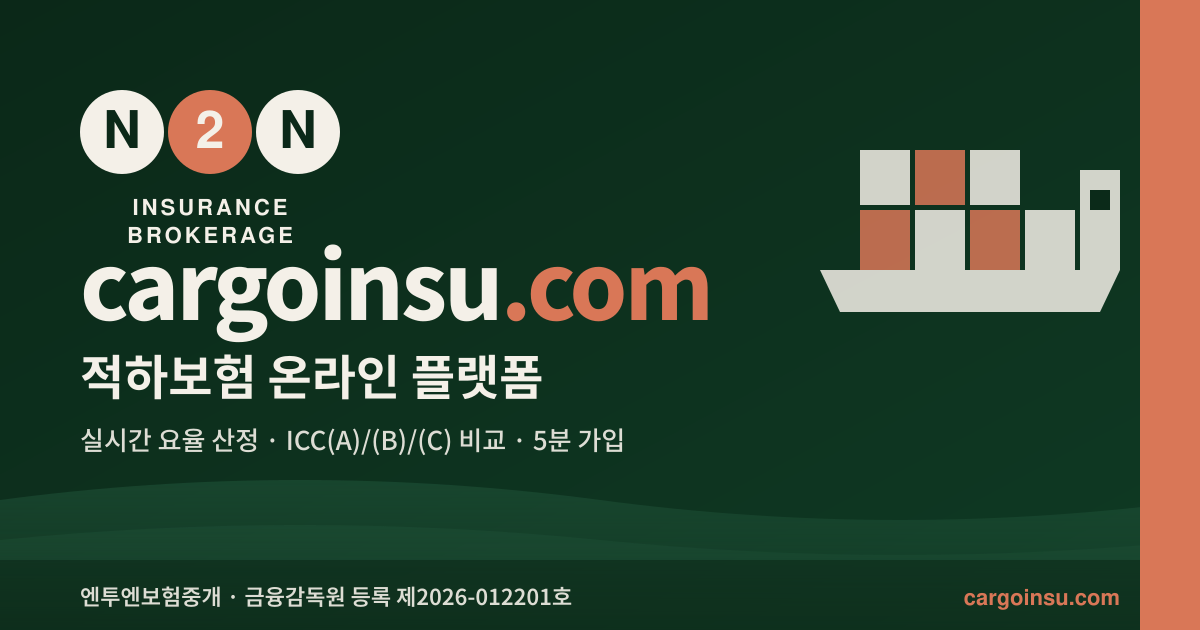
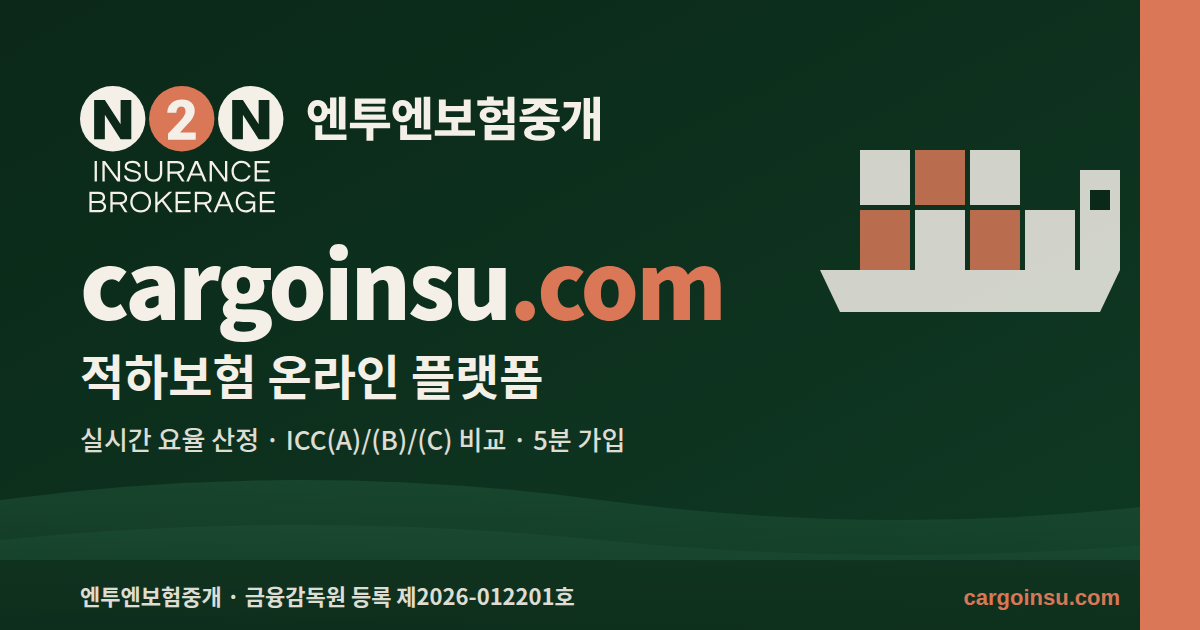
fix: 영문 로고 마크를 정본 기하로 재작성 (0.426→0.600), light-en 추가, OG 카드 로고 정본 적용

diff --git a/en/products/carriers-liability.html b/en/products/carriers-liability.html
@@ -14,6 +14,25 @@ j=d.createElement(s),dl=l!='dataLayer'?'&l='+l:'';j.async=true;j.src=
 <meta name="description" content="Cover for the legal liability of trucking carriers and forwarders to cargo owners. Meets the compulsory requirement under Article 35 of the Trucking Transport Business Act — essential for 5-tonne+ / 10-tonne-GVW, moving-goods, parcel and refrigerated carriers.">
 <meta name="robots" content="index, follow">
 <link rel="canonical" href="https://cargoinsu.com/en/products/carriers-liability.html">
+<!-- Open Graph -->
+<meta property="og:type" content="website">
+<meta property="og:locale" content="en_US">
+<meta property="og:locale:alternate" content="ko_KR">
+<meta property="og:site_name" content="cargoinsu.com">
+<meta property="og:title" content="Carrier's Liability Insurance">
+<meta property="og:description" content="Cover for the legal liability of trucking carriers and forwarders to cargo owners. Meets the compulsory requirement under Article 35 of the Trucking Transport Business Act — essential for 5-tonne+ / 10-tonne-GVW, moving-goods, parcel and refrigerated carriers.">
+<meta property="og:url" content="https://cargoinsu.com/en/products/carriers-liability.html">
+<meta property="og:image" content="https://cargoinsu.com/assets/og-image.png">
+<meta property="og:image:secure_url" content="https://cargoinsu.com/assets/og-image.png">
+<meta property="og:image:type" content="image/png">
+<meta property="og:image:width" content="1200">
+<meta property="og:image:height" content="630">
+<meta property="og:image:alt" content="cargoinsu.com — N2N Insurance Brokerage, marine cargo insurance platform">
+<!-- Twitter Card -->
+<meta name="twitter:card" content="summary_large_image">
+<meta name="twitter:title" content="Carrier's Liability Insurance">
+<meta name="twitter:description" content="Cover for the legal liability of trucking carriers and forwarders to cargo owners. Meets the compulsory requirement under Article 35 of the Trucking Transport Business Act — essential for 5-tonne+ / 10-tonne-GVW, moving-goods, parcel and refrigerated carriers.">
+<meta name="twitter:image" content="https://cargoinsu.com/assets/og-image.png">
 <link rel="alternate" hreflang="ko" href="https://cargoinsu.com/products/carriers-liability.html">
 <link rel="alternate" hreflang="en" href="https://cargoinsu.com/en/products/carriers-liability.html">
 <link rel="alternate" hreflang="x-default" href="https://cargoinsu.com/products/carriers-liability.html">

diff --git a/en/products/jewellers-block.html b/en/products/jewellers-block.html
@@ -14,6 +14,25 @@ j=d.createElement(s),dl=l!='dataLayer'?'&l='+l:'';j.async=true;j.src=
 <meta name="description" content="All Risks cover for precious metals, gems, fine watches, luxury goods, art and antiques across store, vault, transit, exhibition and auction. Chubb Jeweller's Block global wording with Worldwide, Mysterious Disappearance and Memo & Consignment endorsements.">
 <meta name="robots" content="index, follow">
 <link rel="canonical" href="https://cargoinsu.com/en/products/jewellers-block.html">
+<!-- Open Graph -->
+<meta property="og:type" content="website">
+<meta property="og:locale" content="en_US">
+<meta property="og:locale:alternate" content="ko_KR">
+<meta property="og:site_name" content="cargoinsu.com">
+<meta property="og:title" content="Jeweller's Block Insurance">
+<meta property="og:description" content="All Risks cover for precious metals, gems, fine watches, luxury goods, art and antiques across store, vault, transit, exhibition and auction. Chubb Jeweller's Block global wording with Worldwide, Mysterious Disappearance and Memo &amp; Consignment endorsements.">
+<meta property="og:url" content="https://cargoinsu.com/en/products/jewellers-block.html">
+<meta property="og:image" content="https://cargoinsu.com/assets/og-image.png">
+<meta property="og:image:secure_url" content="https://cargoinsu.com/assets/og-image.png">
+<meta property="og:image:type" content="image/png">
+<meta property="og:image:width" content="1200">
+<meta property="og:image:height" content="630">
+<meta property="og:image:alt" content="cargoinsu.com — N2N Insurance Brokerage, marine cargo insurance platform">
+<!-- Twitter Card -->
+<meta name="twitter:card" content="summary_large_image">
+<meta name="twitter:title" content="Jeweller's Block Insurance">
+<meta name="twitter:description" content="All Risks cover for precious metals, gems, fine watches, luxury goods, art and antiques across store, vault, transit, exhibition and auction. Chubb Jeweller's Block global wording with Worldwide, Mysterious Disappearance and Memo &amp; Consignment endorsements.">
+<meta name="twitter:image" content="https://cargoinsu.com/assets/og-image.png">
 <link rel="alternate" hreflang="ko" href="https://cargoinsu.com/products/jewellers-block.html">
 <link rel="alternate" hreflang="en" href="https://cargoinsu.com/en/products/jewellers-block.html">
 <link rel="alternate" hreflang="x-default" href="https://cargoinsu.com/products/jewellers-block.html">

diff --git a/en/products/liability-freight-forwarders.html b/en/products/liability-freight-forwarders.html
@@ -14,6 +14,25 @@ j=d.createElement(s),dl=l!='dataLayer'?'&l='+l:'';j.async=true;j.src=
 <meta name="description" content="Integrated cover for the loss and third-party liability a forwarder or multimodal operator faces while carrying, storing and transhipping a client's international cargo. Standard for KIFFA / FIATA / IATA B/L operators.">
 <meta name="robots" content="index, follow">
 <link rel="canonical" href="https://cargoinsu.com/en/products/liability-freight-forwarders.html">
+<!-- Open Graph -->
+<meta property="og:type" content="website">
+<meta property="og:locale" content="en_US">
+<meta property="og:locale:alternate" content="ko_KR">
+<meta property="og:site_name" content="cargoinsu.com">
+<meta property="og:title" content="Freight Forwarder's Liability (FFL)">
+<meta property="og:description" content="Integrated cover for the loss and third-party liability a forwarder or multimodal operator faces while carrying, storing and transhipping a client's international cargo. Standard for KIFFA / FIATA / IATA B/L operators.">
+<meta property="og:url" content="https://cargoinsu.com/en/products/liability-freight-forwarders.html">
+<meta property="og:image" content="https://cargoinsu.com/assets/og-image.png">
+<meta property="og:image:secure_url" content="https://cargoinsu.com/assets/og-image.png">
+<meta property="og:image:type" content="image/png">
+<meta property="og:image:width" content="1200">
+<meta property="og:image:height" content="630">
+<meta property="og:image:alt" content="cargoinsu.com — N2N Insurance Brokerage, marine cargo insurance platform">
+<!-- Twitter Card -->
+<meta name="twitter:card" content="summary_large_image">
+<meta name="twitter:title" content="Freight Forwarder's Liability (FFL)">
+<meta name="twitter:description" content="Integrated cover for the loss and third-party liability a forwarder or multimodal operator faces while carrying, storing and transhipping a client's international cargo. Standard for KIFFA / FIATA / IATA B/L operators.">
+<meta name="twitter:image" content="https://cargoinsu.com/assets/og-image.png">
 <link rel="alternate" hreflang="ko" href="https://cargoinsu.com/products/liability-freight-forwarders.html">
 <link rel="alternate" hreflang="en" href="https://cargoinsu.com/en/products/liability-freight-forwarders.html">
 <link rel="alternate" hreflang="x-default" href="https://cargoinsu.com/products/liability-freight-forwarders.html">

diff --git a/en/products/marine-transit.html b/en/products/marine-transit.html
@@ -14,6 +14,25 @@ j=d.createElement(s),dl=l!='dataLayer'?'&l='+l:'';j.async=true;j.src=
 <meta name="description" content="Transit insurance covering loss or damage to goods in domestic road, rail and coastal carriage. Own-account or contracted, per-shipment or annual open cover. Cargo-owner cover, separate from carrier's liability.">
 <meta name="robots" content="index, follow">
 <link rel="canonical" href="https://cargoinsu.com/en/products/marine-transit.html">
+<!-- Open Graph -->
+<meta property="og:type" content="website">
+<meta property="og:locale" content="en_US">
+<meta property="og:locale:alternate" content="ko_KR">
+<meta property="og:site_name" content="cargoinsu.com">
+<meta property="og:title" content="Transit Insurance (Marine / domestic)">
+<meta property="og:description" content="Transit insurance covering loss or damage to goods in domestic road, rail and coastal carriage. Own-account or contracted, per-shipment or annual open cover. Cargo-owner cover, separate from carrier's liability.">
+<meta property="og:url" content="https://cargoinsu.com/en/products/marine-transit.html">
+<meta property="og:image" content="https://cargoinsu.com/assets/og-image.png">
+<meta property="og:image:secure_url" content="https://cargoinsu.com/assets/og-image.png">
+<meta property="og:image:type" content="image/png">
+<meta property="og:image:width" content="1200">
+<meta property="og:image:height" content="630">
+<meta property="og:image:alt" content="cargoinsu.com — N2N Insurance Brokerage, marine cargo insurance platform">
+<!-- Twitter Card -->
+<meta name="twitter:card" content="summary_large_image">
+<meta name="twitter:title" content="Transit Insurance (Marine / domestic)">
+<meta name="twitter:description" content="Transit insurance covering loss or damage to goods in domestic road, rail and coastal carriage. Own-account or contracted, per-shipment or annual open cover. Cargo-owner cover, separate from carrier's liability.">
+<meta name="twitter:image" content="https://cargoinsu.com/assets/og-image.png">
 <link rel="alternate" hreflang="ko" href="https://cargoinsu.com/products/marine-transit.html">
 <link rel="alternate" hreflang="en" href="https://cargoinsu.com/en/products/marine-transit.html">
 <link rel="alternate" hreflang="x-default" href="https://cargoinsu.com/products/marine-transit.html">

diff --git a/en/products/inland-transit.html b/en/products/inland-transit.html
@@ -14,6 +14,25 @@ j=d.createElement(s),dl=l!='dataLayer'?'&l='+l:'';j.async=true;j.src=
 <meta name="description" content="Warehouse-to-Warehouse All Risks cover for domestic road and rail goods of manufacturing, distribution and e-commerce shippers. Chubb Inland Transit wording, annual open cover + monthly declaration.">
 <meta name="robots" content="index, follow">
 <link rel="canonical" href="https://cargoinsu.com/en/products/inland-transit.html">
+<!-- Open Graph -->
+<meta property="og:type" content="website">
+<meta property="og:locale" content="en_US">
+<meta property="og:locale:alternate" content="ko_KR">
+<meta property="og:site_name" content="cargoinsu.com">
+<meta property="og:title" content="Inland Transit Insurance">
+<meta property="og:description" content="Warehouse-to-Warehouse All Risks cover for domestic road and rail goods of manufacturing, distribution and e-commerce shippers. Chubb Inland Transit wording, annual open cover + monthly declaration.">
+<meta property="og:url" content="https://cargoinsu.com/en/products/inland-transit.html">
+<meta property="og:image" content="https://cargoinsu.com/assets/og-image.png">
+<meta property="og:image:secure_url" content="https://cargoinsu.com/assets/og-image.png">
+<meta property="og:image:type" content="image/png">
+<meta property="og:image:width" content="1200">
+<meta property="og:image:height" content="630">
+<meta property="og:image:alt" content="cargoinsu.com — N2N Insurance Brokerage, marine cargo insurance platform">
+<!-- Twitter Card -->
+<meta name="twitter:card" content="summary_large_image">
+<meta name="twitter:title" content="Inland Transit Insurance">
+<meta name="twitter:description" content="Warehouse-to-Warehouse All Risks cover for domestic road and rail goods of manufacturing, distribution and e-commerce shippers. Chubb Inland Transit wording, annual open cover + monthly declaration.">
+<meta name="twitter:image" content="https://cargoinsu.com/assets/og-image.png">
 <link rel="alternate" hreflang="ko" href="https://cargoinsu.com/products/inland-transit.html">
 <link rel="alternate" hreflang="en" href="https://cargoinsu.com/en/products/inland-transit.html">
 <link rel="alternate" hreflang="x-default" href="https://cargoinsu.com/products/inland-transit.html">

diff --git a/en/guide/index.html b/en/guide/index.html
@@ -13,6 +13,25 @@ j=d.createElement(s),dl=l!='dataLayer'?'&l='+l:'';j.async=true;j.src=
 <title>Marine Cargo Insurance Guide &mdash; Clauses, Incoterms, Policy Period, Claims | cargoinsu.com</title>
 <meta name="description" content="A broker's guide to marine cargo insurance: ICC (A/B/C) and old A.R/W.A/F.P.A clauses, who insures under each Incoterm, warehouse-to-warehouse policy period, and the claims procedure.">
 <link rel="canonical" href="https://cargoinsu.com/en/guide/index.html">
+<!-- Open Graph -->
+<meta property="og:type" content="website">
+<meta property="og:locale" content="en_US">
+<meta property="og:locale:alternate" content="ko_KR">
+<meta property="og:site_name" content="cargoinsu.com">
+<meta property="og:title" content="Marine Cargo Insurance Guide — Clauses, Incoterms, Policy Period, Claims">
+<meta property="og:description" content="A broker's guide to marine cargo insurance: ICC (A/B/C) and old A.R/W.A/F.P.A clauses, who insures under each Incoterm, warehouse-to-warehouse policy period, and the claims procedure.">
+<meta property="og:url" content="https://cargoinsu.com/en/guide/index.html">
+<meta property="og:image" content="https://cargoinsu.com/assets/og-image.png">
+<meta property="og:image:secure_url" content="https://cargoinsu.com/assets/og-image.png">
+<meta property="og:image:type" content="image/png">
+<meta property="og:image:width" content="1200">
+<meta property="og:image:height" content="630">
+<meta property="og:image:alt" content="cargoinsu.com — N2N Insurance Brokerage, marine cargo insurance platform">
+<!-- Twitter Card -->
+<meta name="twitter:card" content="summary_large_image">
+<meta name="twitter:title" content="Marine Cargo Insurance Guide — Clauses, Incoterms, Policy Period, Claims">
+<meta name="twitter:description" content="A broker's guide to marine cargo insurance: ICC (A/B/C) and old A.R/W.A/F.P.A clauses, who insures under each Incoterm, warehouse-to-warehouse policy period, and the claims procedure.">
+<meta name="twitter:image" content="https://cargoinsu.com/assets/og-image.png">
 <!-- hreflang -->
 <link rel="alternate" hreflang="ko" href="https://cargoinsu.com/guide/index.html">
 <link rel="alternate" hreflang="en" href="https://cargoinsu.com/en/guide/index.html">

diff --git a/en/guide/marine-cargo.html b/en/guide/marine-cargo.html
@@ -13,6 +13,25 @@ j=d.createElement(s),dl=l!='dataLayer'?'&l='+l:'';j.async=true;j.src=
 <title>What is marine cargo insurance? | cargoinsu.com</title>
 <meta name="description" content="Marine cargo insurance covers loss or damage in transit. Coverage scopes ICC(A)/(B)/(C), the 110%-of-invoice insured amount, exclusions, and how to compare six insurers. The broker fee is paid by the insurer (Art. 98).">
 <link rel="canonical" href="https://cargoinsu.com/en/guide/marine-cargo.html">
+<!-- Open Graph -->
+<meta property="og:type" content="website">
+<meta property="og:locale" content="en_US">
+<meta property="og:locale:alternate" content="ko_KR">
+<meta property="og:site_name" content="cargoinsu.com">
+<meta property="og:title" content="What is marine cargo insurance?">
+<meta property="og:description" content="Marine cargo insurance covers loss or damage in transit. Coverage scopes ICC(A)/(B)/(C), the 110%-of-invoice insured amount, exclusions, and how to compare six insurers. The broker fee is paid by the insurer (Art. 98).">
+<meta property="og:url" content="https://cargoinsu.com/en/guide/marine-cargo.html">
+<meta property="og:image" content="https://cargoinsu.com/assets/og-image.png">
+<meta property="og:image:secure_url" content="https://cargoinsu.com/assets/og-image.png">
+<meta property="og:image:type" content="image/png">
+<meta property="og:image:width" content="1200">
+<meta property="og:image:height" content="630">
+<meta property="og:image:alt" content="cargoinsu.com — N2N Insurance Brokerage, marine cargo insurance platform">
+<!-- Twitter Card -->
+<meta name="twitter:card" content="summary_large_image">
+<meta name="twitter:title" content="What is marine cargo insurance?">
+<meta name="twitter:description" content="Marine cargo insurance covers loss or damage in transit. Coverage scopes ICC(A)/(B)/(C), the 110%-of-invoice insured amount, exclusions, and how to compare six insurers. The broker fee is paid by the insurer (Art. 98).">
+<meta name="twitter:image" content="https://cargoinsu.com/assets/og-image.png">
 <!-- hreflang -->
 <link rel="alternate" hreflang="ko" href="https://cargoinsu.com/guide/marine-cargo.html">
 <link rel="alternate" hreflang="en" href="https://cargoinsu.com/en/guide/marine-cargo.html">

diff --git a/en/products/marine-cargo.html b/en/products/marine-cargo.html
@@ -14,6 +14,25 @@ j=d.createElement(s),dl=l!='dataLayer'?'&l='+l:'';j.async=true;j.src=
 <meta name="description" content="Marine cargo insurance covering loss or damage to goods in sea, air and multimodal transit. New ICC(A/B/C) + old A.R/W.A/F.P.A clauses — Incoterms, item-specific rules, required documents and FAQ.">
 <meta name="robots" content="index, follow">
 <link rel="canonical" href="https://cargoinsu.com/en/products/marine-cargo.html">
+<!-- Open Graph -->
+<meta property="og:type" content="website">
+<meta property="og:locale" content="en_US">
+<meta property="og:locale:alternate" content="ko_KR">
+<meta property="og:site_name" content="cargoinsu.com">
+<meta property="og:title" content="Marine Cargo Insurance — full guide">
+<meta property="og:description" content="Marine cargo insurance covering loss or damage to goods in sea, air and multimodal transit. New ICC(A/B/C) + old A.R/W.A/F.P.A clauses — Incoterms, item-specific rules, required documents and FAQ.">
+<meta property="og:url" content="https://cargoinsu.com/en/products/marine-cargo.html">
+<meta property="og:image" content="https://cargoinsu.com/assets/og-image.png">
+<meta property="og:image:secure_url" content="https://cargoinsu.com/assets/og-image.png">
+<meta property="og:image:type" content="image/png">
+<meta property="og:image:width" content="1200">
+<meta property="og:image:height" content="630">
+<meta property="og:image:alt" content="cargoinsu.com — N2N Insurance Brokerage, marine cargo insurance platform">
+<!-- Twitter Card -->
+<meta name="twitter:card" content="summary_large_image">
+<meta name="twitter:title" content="Marine Cargo Insurance — full guide">
+<meta name="twitter:description" content="Marine cargo insurance covering loss or damage to goods in sea, air and multimodal transit. New ICC(A/B/C) + old A.R/W.A/F.P.A clauses — Incoterms, item-specific rules, required documents and FAQ.">
+<meta name="twitter:image" content="https://cargoinsu.com/assets/og-image.png">
 <!-- hreflang -->
 <link rel="alternate" hreflang="ko" href="https://cargoinsu.com/products/marine-cargo.html">
 <link rel="alternate" hreflang="en" href="https://cargoinsu.com/en/products/marine-cargo.html">

diff --git a/en/guide/clauses.html b/en/guide/clauses.html
@@ -13,6 +13,25 @@ j=d.createElement(s),dl=l!='dataLayer'?'&l='+l:'';j.async=true;j.src=
 <title>Cargo Clauses Compared &mdash; ICC(A/B/C) &middot; A.R/W.A/F.P.A &middot; Air | cargoinsu.com</title>
 <meta name="description" content="Marine cargo clauses compared: new ICC (A/B/C), old A.R/W.A/F.P.A, ICC(Air), 11 additional risks and recommended clauses by cargo type, from an ACIU broker's perspective.">
 <link rel="canonical" href="https://cargoinsu.com/en/guide/clauses.html">
+<!-- Open Graph -->
+<meta property="og:type" content="website">
+<meta property="og:locale" content="en_US">
+<meta property="og:locale:alternate" content="ko_KR">
+<meta property="og:site_name" content="cargoinsu.com">
+<meta property="og:title" content="Cargo Clauses Compared — ICC(A/B/C) · A.R/W.A/F.P.A · Air">
+<meta property="og:description" content="Marine cargo clauses compared: new ICC (A/B/C), old A.R/W.A/F.P.A, ICC(Air), 11 additional risks and recommended clauses by cargo type, from an ACIU broker's perspective.">
+<meta property="og:url" content="https://cargoinsu.com/en/guide/clauses.html">
+<meta property="og:image" content="https://cargoinsu.com/assets/og-image.png">
+<meta property="og:image:secure_url" content="https://cargoinsu.com/assets/og-image.png">
+<meta property="og:image:type" content="image/png">
+<meta property="og:image:width" content="1200">
+<meta property="og:image:height" content="630">
+<meta property="og:image:alt" content="cargoinsu.com — N2N Insurance Brokerage, marine cargo insurance platform">
+<!-- Twitter Card -->
+<meta name="twitter:card" content="summary_large_image">
+<meta name="twitter:title" content="Cargo Clauses Compared — ICC(A/B/C) · A.R/W.A/F.P.A · Air">
+<meta name="twitter:description" content="Marine cargo clauses compared: new ICC (A/B/C), old A.R/W.A/F.P.A, ICC(Air), 11 additional risks and recommended clauses by cargo type, from an ACIU broker's perspective.">
+<meta name="twitter:image" content="https://cargoinsu.com/assets/og-image.png">
 <!-- hreflang -->
 <link rel="alternate" hreflang="ko" href="https://cargoinsu.com/guide/clauses.html">
 <link rel="alternate" hreflang="en" href="https://cargoinsu.com/en/guide/clauses.html">

diff --git a/en/guide/incoterms.html b/en/guide/incoterms.html
@@ -13,6 +13,25 @@ j=d.createElement(s),dl=l!='dataLayer'?'&l='+l:'';j.async=true;j.src=
 <title>Incoterms &amp; Who Insures the Cargo &mdash; EXW &middot; FOB &middot; CIF and more | cargoinsu.com</title>
 <meta name="description" content="The 8 Incoterms most used in cargo insurance (EXW, FAS, FOB, CFR, CIF, CIP, DDP, DAP): seller vs buyer duty to insure, the risk-transfer point and a self-check.">
 <link rel="canonical" href="https://cargoinsu.com/en/guide/incoterms.html">
+<!-- Open Graph -->
+<meta property="og:type" content="website">
+<meta property="og:locale" content="en_US">
+<meta property="og:locale:alternate" content="ko_KR">
+<meta property="og:site_name" content="cargoinsu.com">
+<meta property="og:title" content="Incoterms &amp; Who Insures the Cargo — EXW · FOB · CIF and more">
+<meta property="og:description" content="The 8 Incoterms most used in cargo insurance (EXW, FAS, FOB, CFR, CIF, CIP, DDP, DAP): seller vs buyer duty to insure, the risk-transfer point and a self-check.">
+<meta property="og:url" content="https://cargoinsu.com/en/guide/incoterms.html">
+<meta property="og:image" content="https://cargoinsu.com/assets/og-image.png">
+<meta property="og:image:secure_url" content="https://cargoinsu.com/assets/og-image.png">
+<meta property="og:image:type" content="image/png">
+<meta property="og:image:width" content="1200">
+<meta property="og:image:height" content="630">
+<meta property="og:image:alt" content="cargoinsu.com — N2N Insurance Brokerage, marine cargo insurance platform">
+<!-- Twitter Card -->
+<meta name="twitter:card" content="summary_large_image">
+<meta name="twitter:title" content="Incoterms &amp; Who Insures the Cargo — EXW · FOB · CIF and more">
+<meta name="twitter:description" content="The 8 Incoterms most used in cargo insurance (EXW, FAS, FOB, CFR, CIF, CIP, DDP, DAP): seller vs buyer duty to insure, the risk-transfer point and a self-check.">
+<meta name="twitter:image" content="https://cargoinsu.com/assets/og-image.png">
 <!-- hreflang -->
 <link rel="alternate" hreflang="ko" href="https://cargoinsu.com/guide/incoterms.html">
 <link rel="alternate" hreflang="en" href="https://cargoinsu.com/en/guide/incoterms.html">

diff --git a/en/guide/period.html b/en/guide/period.html
@@ -13,6 +13,25 @@ j=d.createElement(s),dl=l!='dataLayer'?'&l='+l:'';j.async=true;j.src=
 <title>Cargo Policy Period &mdash; Warehouse to Warehouse | cargoinsu.com</title>
 <meta name="description" content="When does cargo insurance attach and end? The Warehouse-to-Warehouse principle, attachment by Incoterm, the 30-day (Korea) / 60-day standard after discharge, and gap-avoidance checkpoints.">
 <link rel="canonical" href="https://cargoinsu.com/en/guide/period.html">
+<!-- Open Graph -->
+<meta property="og:type" content="website">
+<meta property="og:locale" content="en_US">
+<meta property="og:locale:alternate" content="ko_KR">
+<meta property="og:site_name" content="cargoinsu.com">
+<meta property="og:title" content="Cargo Policy Period — Warehouse to Warehouse">
+<meta property="og:description" content="When does cargo insurance attach and end? The Warehouse-to-Warehouse principle, attachment by Incoterm, the 30-day (Korea) / 60-day standard after discharge, and gap-avoidance checkpoints.">
+<meta property="og:url" content="https://cargoinsu.com/en/guide/period.html">
+<meta property="og:image" content="https://cargoinsu.com/assets/og-image.png">
+<meta property="og:image:secure_url" content="https://cargoinsu.com/assets/og-image.png">
+<meta property="og:image:type" content="image/png">
+<meta property="og:image:width" content="1200">
+<meta property="og:image:height" content="630">
+<meta property="og:image:alt" content="cargoinsu.com — N2N Insurance Brokerage, marine cargo insurance platform">
+<!-- Twitter Card -->
+<meta name="twitter:card" content="summary_large_image">
+<meta name="twitter:title" content="Cargo Policy Period — Warehouse to Warehouse">
+<meta name="twitter:description" content="When does cargo insurance attach and end? The Warehouse-to-Warehouse principle, attachment by Incoterm, the 30-day (Korea) / 60-day standard after discharge, and gap-avoidance checkpoints.">
+<meta name="twitter:image" content="https://cargoinsu.com/assets/og-image.png">
 <!-- hreflang -->
 <link rel="alternate" hreflang="ko" href="https://cargoinsu.com/guide/period.html">
 <link rel="alternate" hreflang="en" href="https://cargoinsu.com/en/guide/period.html">

diff --git a/en/guide/claims.html b/en/guide/claims.html
@@ -13,6 +13,25 @@ j=d.createElement(s),dl=l!='dataLayer'?'&l='+l:'';j.async=true;j.src=
 <title>Cargo Claims Procedure &mdash; First 24 Hours + 5-Step Process | cargoinsu.com</title>
 <meta name="description" content="What to do in the first 24 hours of a cargo loss, the 5-step claim process, export/import document checklists, and how an ACIU broker stays with you through the adjustment.">
 <link rel="canonical" href="https://cargoinsu.com/en/guide/claims.html">
+<!-- Open Graph -->
+<meta property="og:type" content="website">
+<meta property="og:locale" content="en_US">
+<meta property="og:locale:alternate" content="ko_KR">
+<meta property="og:site_name" content="cargoinsu.com">
+<meta property="og:title" content="Cargo Claims Procedure — First 24 Hours + 5-Step Process">
+<meta property="og:description" content="What to do in the first 24 hours of a cargo loss, the 5-step claim process, export/import document checklists, and how an ACIU broker stays with you through the adjustment.">
+<meta property="og:url" content="https://cargoinsu.com/en/guide/claims.html">
+<meta property="og:image" content="https://cargoinsu.com/assets/og-image.png">
+<meta property="og:image:secure_url" content="https://cargoinsu.com/assets/og-image.png">
+<meta property="og:image:type" content="image/png">
+<meta property="og:image:width" content="1200">
+<meta property="og:image:height" content="630">
+<meta property="og:image:alt" content="cargoinsu.com — N2N Insurance Brokerage, marine cargo insurance platform">
+<!-- Twitter Card -->
+<meta name="twitter:card" content="summary_large_image">
+<meta name="twitter:title" content="Cargo Claims Procedure — First 24 Hours + 5-Step Process">
+<meta name="twitter:description" content="What to do in the first 24 hours of a cargo loss, the 5-step claim process, export/import document checklists, and how an ACIU broker stays with you through the adjustment.">
+<meta name="twitter:image" content="https://cargoinsu.com/assets/og-image.png">
 <!-- hreflang -->
 <link rel="alternate" hreflang="ko" href="https://cargoinsu.com/guide/claims.html">
 <link rel="alternate" hreflang="en" href="https://cargoinsu.com/en/guide/claims.html">
